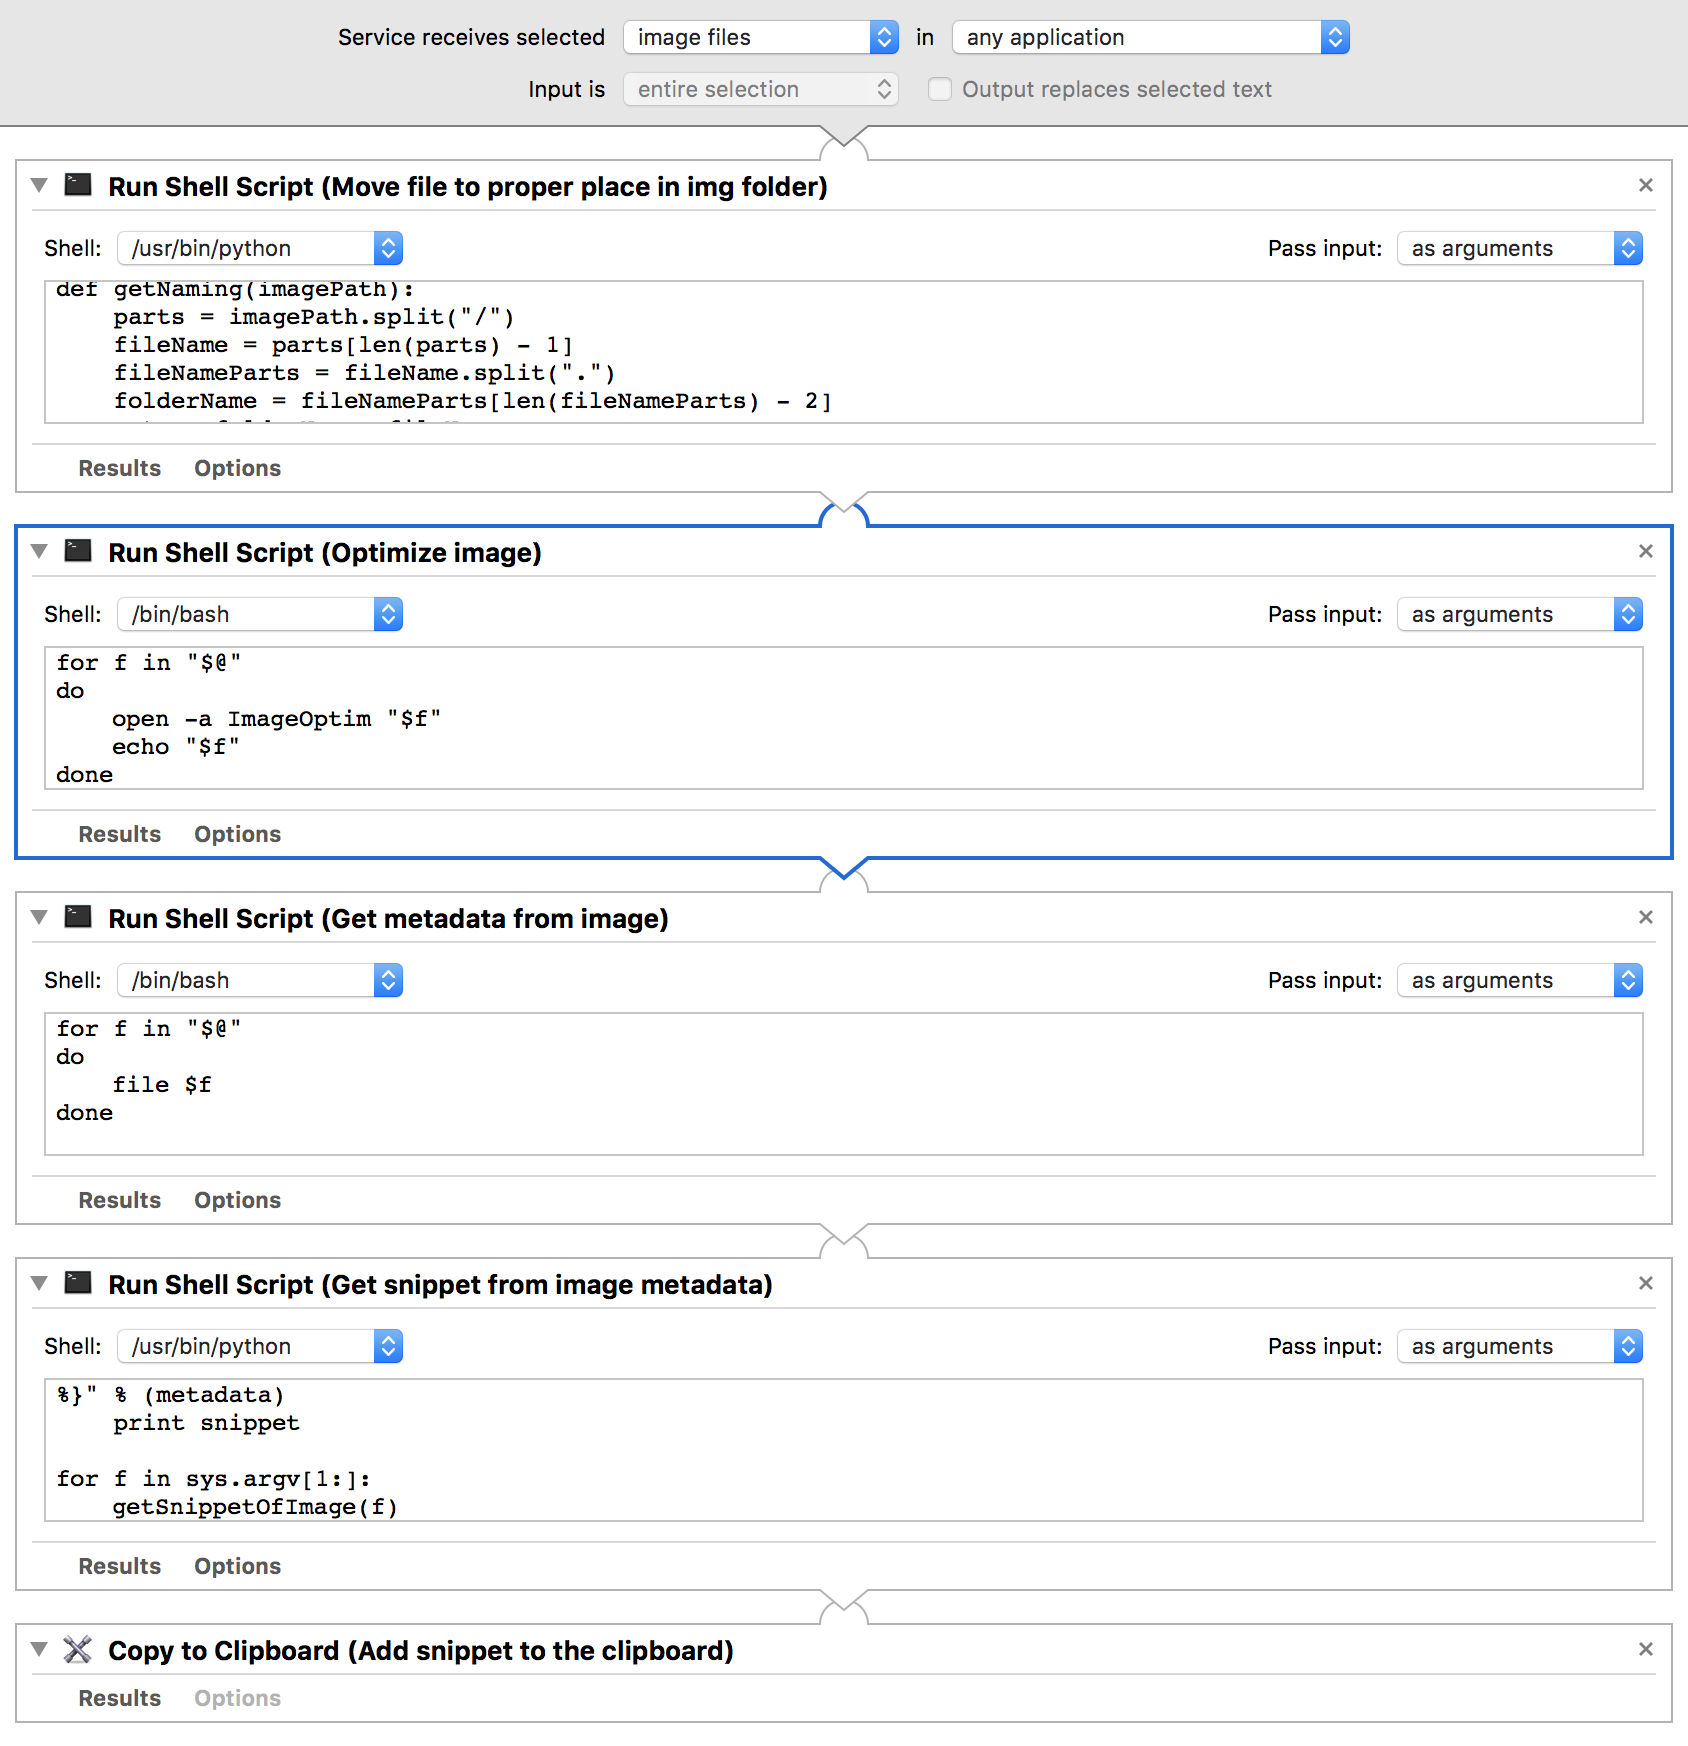
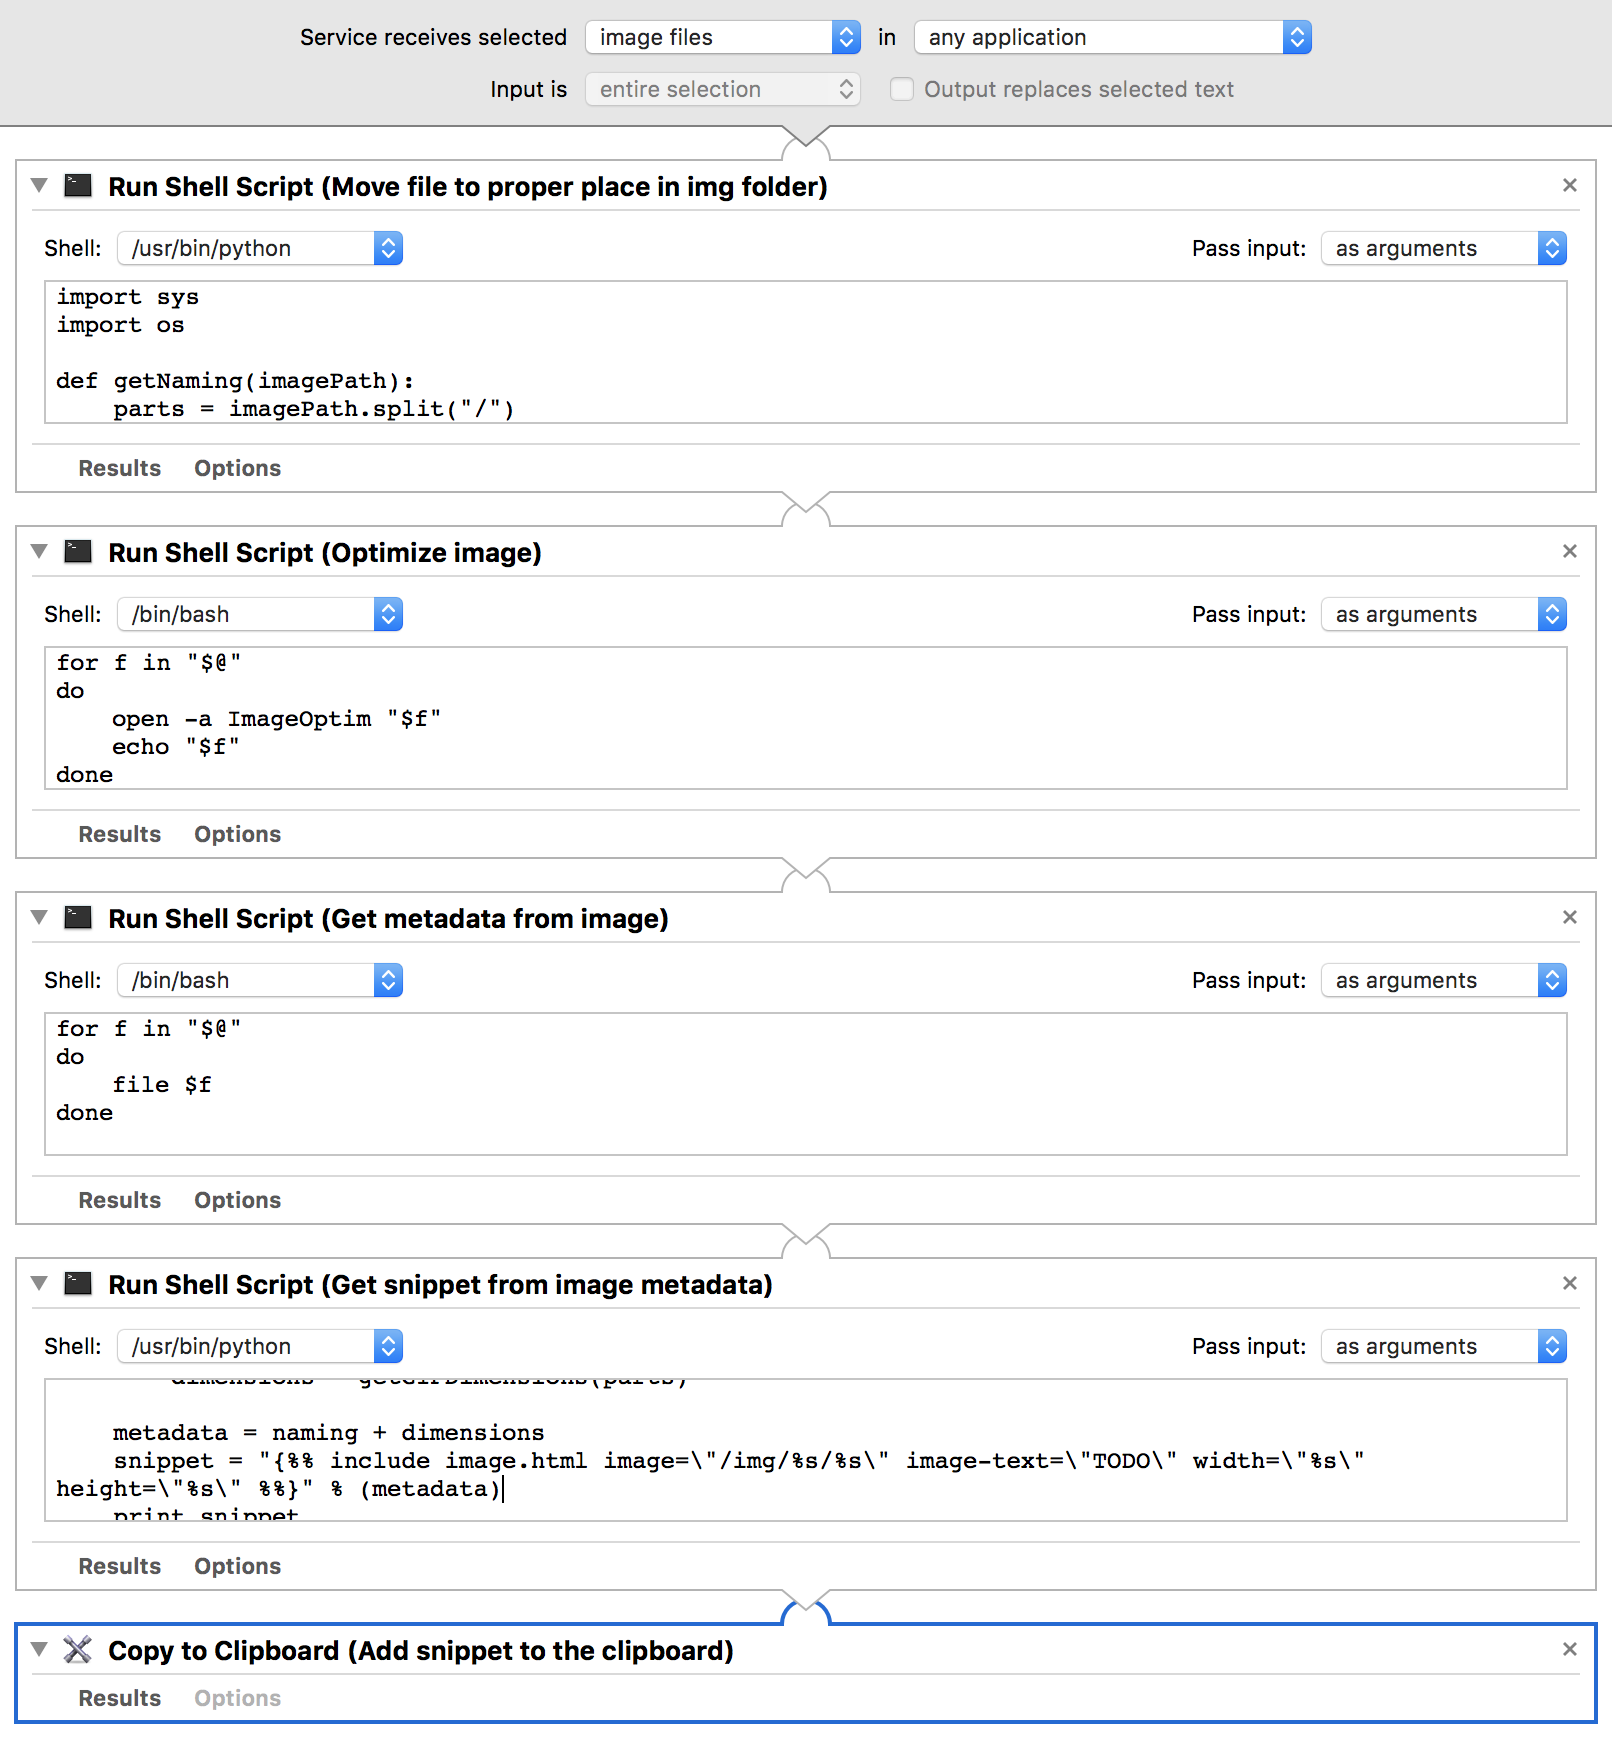
Added more " to correct the snippet

diff --git a/get-snippet.py b/get-snippet.py
@@ -51,5 +51,5 @@ def getSnippetOfImage(image):
         dimensions = getGIFDimensions(parts)
 
     metadata = naming + dimensions
-    snippet = "{%% include image.html image=""/img/%s/%s"" image-text=""TODO"" width=""%s"" height=""%s"" %%}" % (metadata)
+    snippet = "{%% include image.html image=\"/img/%s/%s\" image-text=\"TODO\" width=\"%s\" height=\"%s\" %%}" % (metadata)
     print snippet
